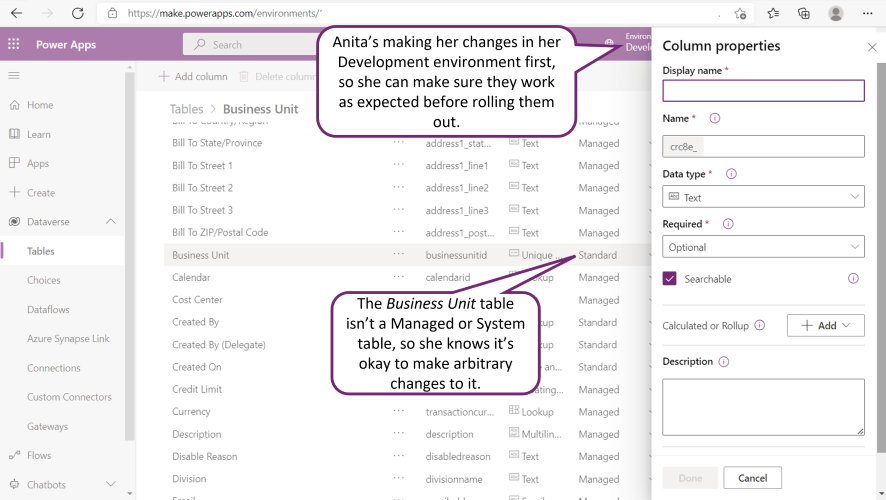
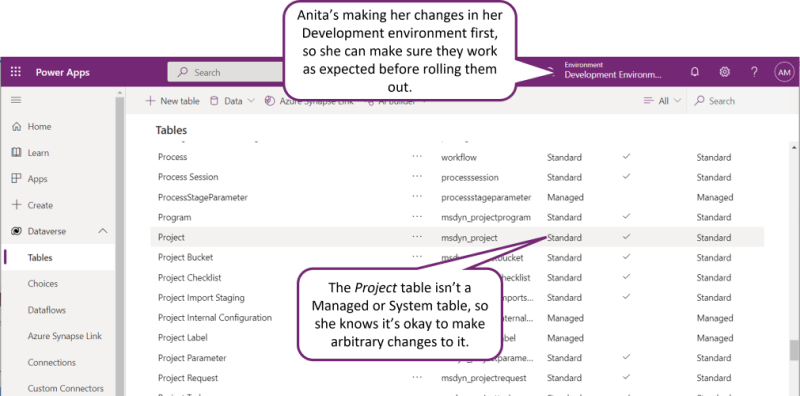
revised art for adding column, adjusted text

diff --git a/ProjectWeb/add-a-column-to-a-table-in-project-for-the-web.md b/ProjectWeb/add-a-column-to-a-table-in-project-for-the-web.md
@@ -44,9 +44,6 @@ To create a custom table column in Project Power App, you have two choices:
    :::image type="content" source="media/CommandBar-ItemFilter.png" alt-text="Choose the type of items you see.":::
 
 1. On the command bar, select **+ Add column**.
-
-   :::image type="content" source="media/AddColumn-OpenDialog.png" alt-text="Choose a table to add a column.":::
-
 1. In the **Column properties** pane, set the [column properties](column-properties) as needed. Properties that require a value have an asterisk next to their name.
 
    :::image type="content" source="media/ColumnPropertyQuickInfo.png" alt-text="Get quick info about a property.":::
@@ -68,12 +65,12 @@ To create a custom table column in Project Power App, you have two choices:
 > [!NOTE]
 > Other properties may become available when you set a value for **Data type**.
 
-## Example: Add a *Budget* column to the Business Unit table
+## Example: Add a *Budget* column to the *Project* table
 
-Anita Montero has determined that her business has grown complex enough to require more granular accounting. She needs to start allocating funds at the Business Unit level. She checked and didn't see a built-in column for this, so she's making the change in the Power Apps portal.
+Anita Montero has determined that her business has grown complex enough to require more granular accounting. She needs to start allocating funds at the Project level. She checked and didn't see a built-in column for this, so she's changing the Project Power App in the Power Apps portal.
 
-She opens the Business Unit table and verifies it's not a Managed or a System table. If it were, she'd have to reconsider her plan.
+She opens the Project table and verifies it's not a Managed or a System table. If it were, she'd have to reconsider her plan.
 
-:::image type="content" source="media/AddColumn-BudgetExample.png" alt-text="The Business Unit table isn't Managed or a System table.":::
+:::image type="content" source="media/AddColumn-BudgetExample.png" alt-text="The Project table isn't Managed or a System table.":::
 
-She adds the new column, names it *Budget*, and sets the Data type to Currency
+She adds the new column, names it *Budget*, and sets the Data type to Currency.
